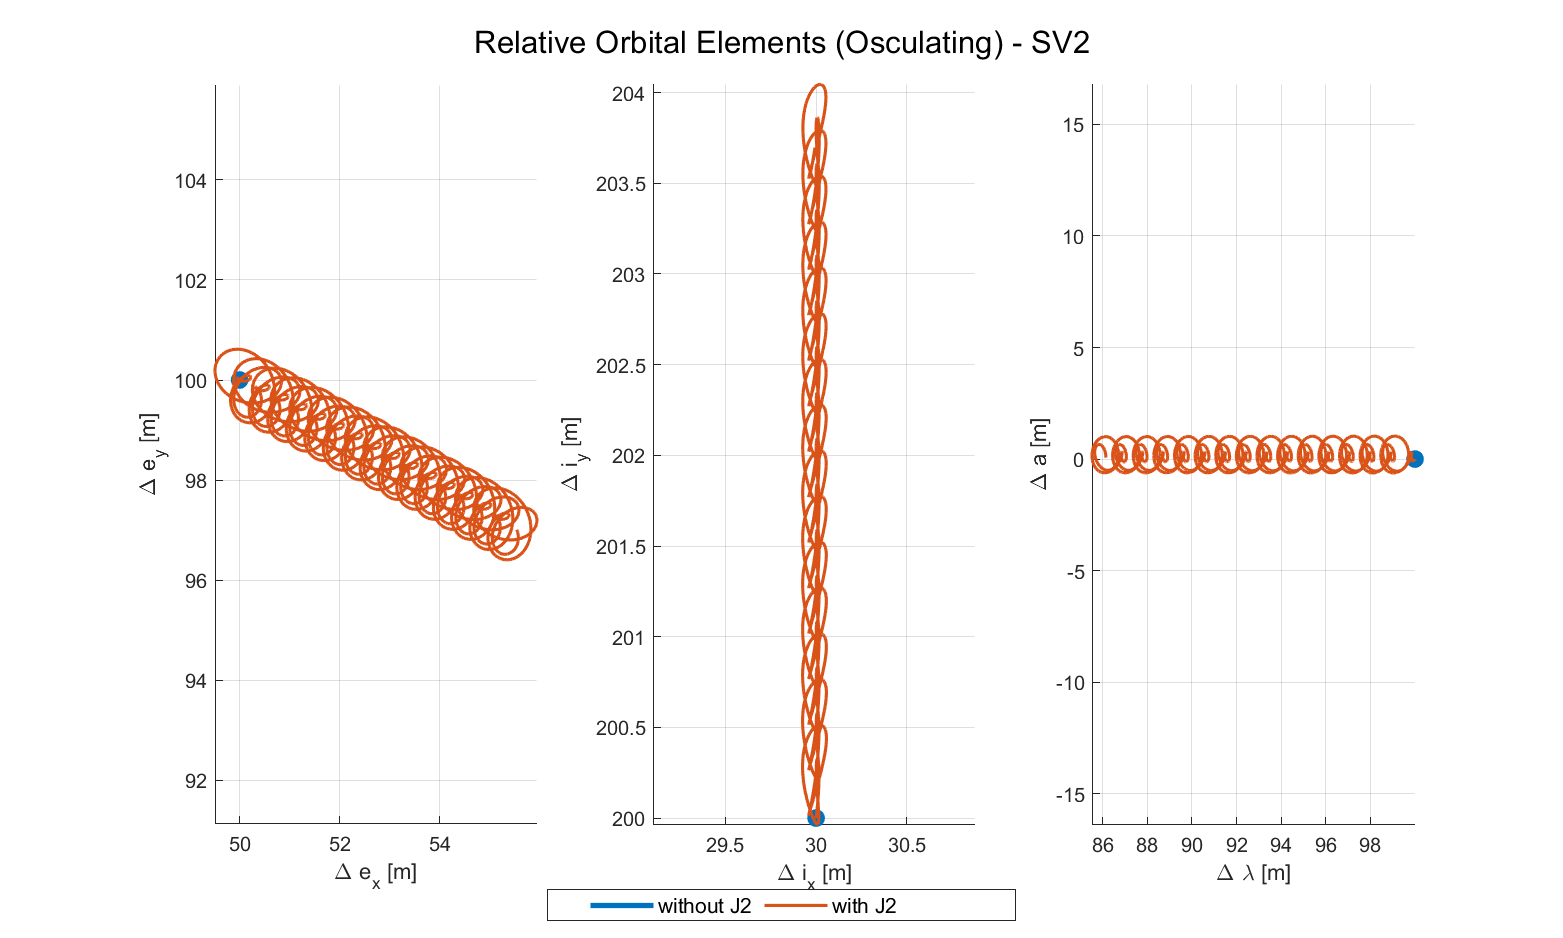
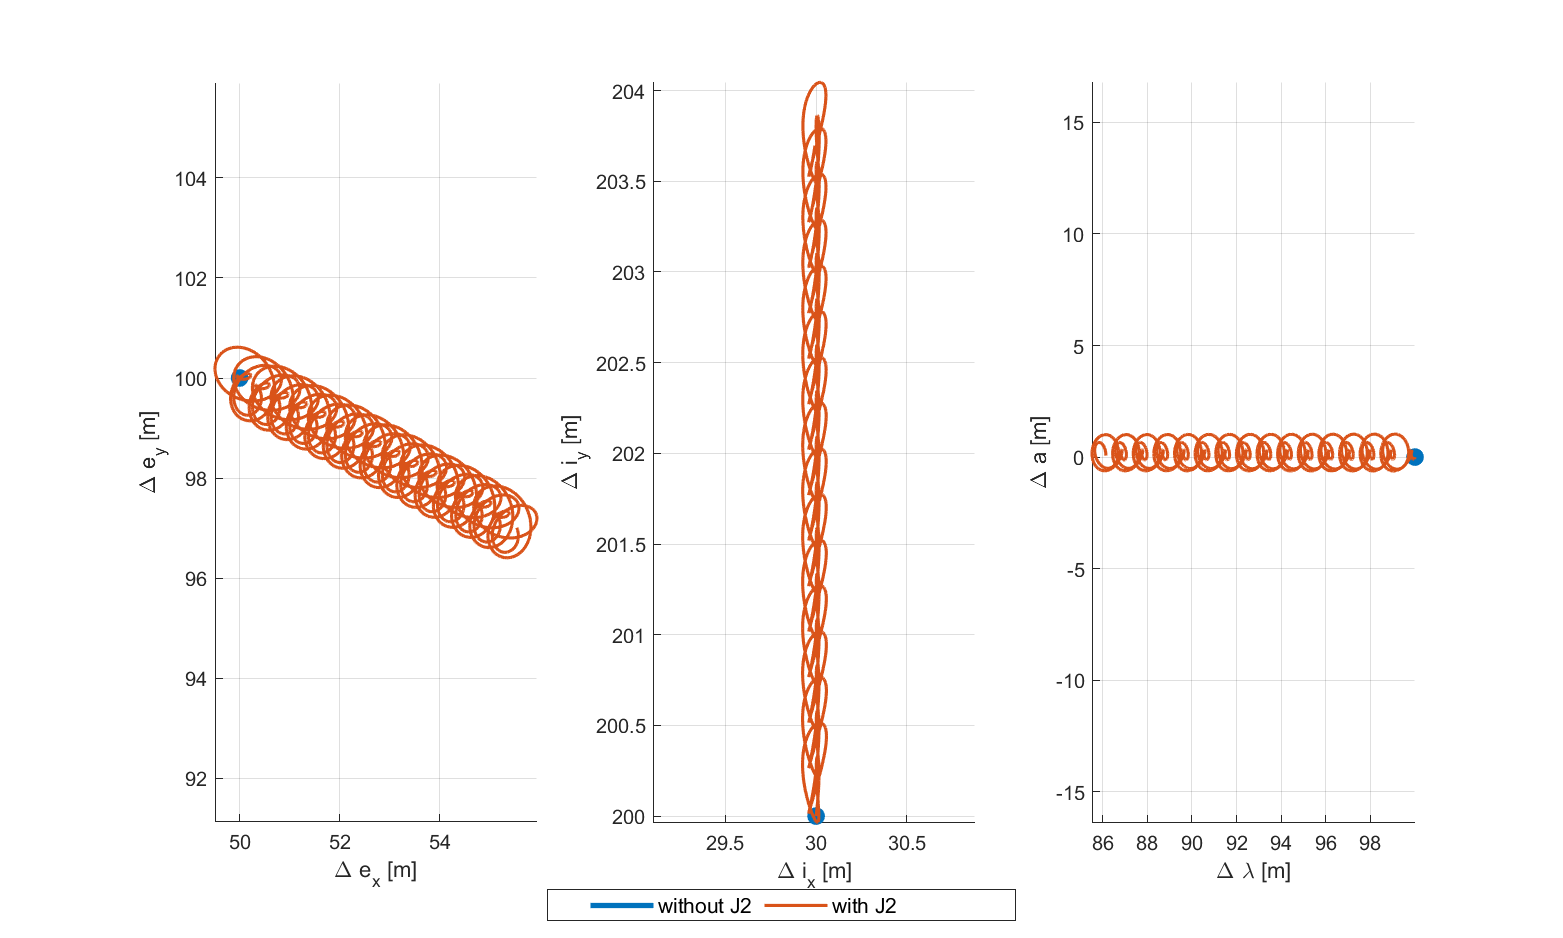
no titles

diff --git a/sim/plotting_methods/plot_OE_ROE_mean_osc.m b/sim/plotting_methods/plot_OE_ROE_mean_osc.m
@@ -33,7 +33,7 @@ function plot_OE_ROE_mean_osc(roe_results, tstart, tint, tend, t_orbit)
 
         % 1. Absolute Elements (Mean)
         figure('Position', [100, 100, 800, 600]);
-        sgtitle(sprintf('Absolute Orbital Elements (Mean) - %s', deputy_type));
+        %sgtitle(sprintf('Absolute Orbital Elements (Mean) - %s', deputy_type));
         
         legend_handles = [];
 
@@ -77,7 +77,7 @@ function plot_OE_ROE_mean_osc(roe_results, tstart, tint, tend, t_orbit)
 
         % 2. Absolute Elements (Oscillating)
         figure('Position', [100, 100, 800, 600]);
-        sgtitle(sprintf('Absolute Orbital Elements (Oscullating) - %s', deputy_type));
+        %sgtitle(sprintf('Absolute Orbital Elements (Oscullating) - %s', deputy_type));
         
         legend_handles = [];
         
@@ -122,7 +122,7 @@ function plot_OE_ROE_mean_osc(roe_results, tstart, tint, tend, t_orbit)
 
         % 3. Relative Elements (Mean)
         figure('Position', [100, 100, 800, 600]);
-        sgtitle(sprintf('Relative Orbital Elements (Mean) - %s', deputy_type));
+        %sgtitle(sprintf('Relative Orbital Elements (Mean) - %s', deputy_type));
 
         legend_handles = [];
 
@@ -166,7 +166,7 @@ function plot_OE_ROE_mean_osc(roe_results, tstart, tint, tend, t_orbit)
 
         % 4. Relative Elements (Oscillating)
         figure('Position', [100, 100, 800, 600]);
-        sgtitle(sprintf('Relative Orbital Elements (Oscullating) - %s', deputy_type));
+        %sgtitle(sprintf('Relative Orbital Elements (Oscullating) - %s', deputy_type));
 
         legend_handles = [];
 
@@ -214,7 +214,7 @@ function plot_OE_ROE_mean_osc(roe_results, tstart, tint, tend, t_orbit)
         deputy_type = all_deputies{deputy_idx};
 
         figure('Color', 'w','Position', [100, 100, 800, 600]);
-        sgtitle(sprintf('RTN Relative Motion (Mean Elements) - %s', deputy_type));
+        %sgtitle(sprintf('RTN Relative Motion (Mean Elements) - %s', deputy_type));
 
         ax1 = subplot(1,3,1);
         hold(ax1, 'on');
@@ -293,7 +293,7 @@ function plot_OE_ROE_mean_osc(roe_results, tstart, tint, tend, t_orbit)
         xlabel('Radial [m]');
         ylabel('Tangential [m]');
         zlabel('Normal [m]');
-        title(sprintf('3D Relative Motion (Mean Elements) - %s', deputy_type));
+        %title(sprintf('3D Relative Motion (Mean Elements) - %s', deputy_type));
         
         legend_handles = [];
 
@@ -336,7 +336,7 @@ function plot_OE_ROE_mean_osc(roe_results, tstart, tint, tend, t_orbit)
 
         % Osculating
         figure('Color', 'w','Position', [100, 100, 1000, 600]);
-        sgtitle(sprintf('Relative Orbital Elements (Osculating) - %s', deputy_type));
+        %sgtitle(sprintf('Relative Orbital Elements (Osculating) - %s', deputy_type));
 
         % Plot relative eccentricity vector (d_e_x vs d_e_y)
         ax1 = subplot(1,3,1);
@@ -417,7 +417,7 @@ function plot_OE_ROE_mean_osc(roe_results, tstart, tint, tend, t_orbit)
 
         % Mean
         figure('Color', 'w','Position', [100, 100, 1000, 600]);
-        sgtitle(sprintf('Relative Orbital Elements (Mean) - %s', deputy_type));
+        %sgtitle(sprintf('Relative Orbital Elements (Mean) - %s', deputy_type));
 
         ax1 = subplot(1,3,1);
         hold(ax1, 'on');
